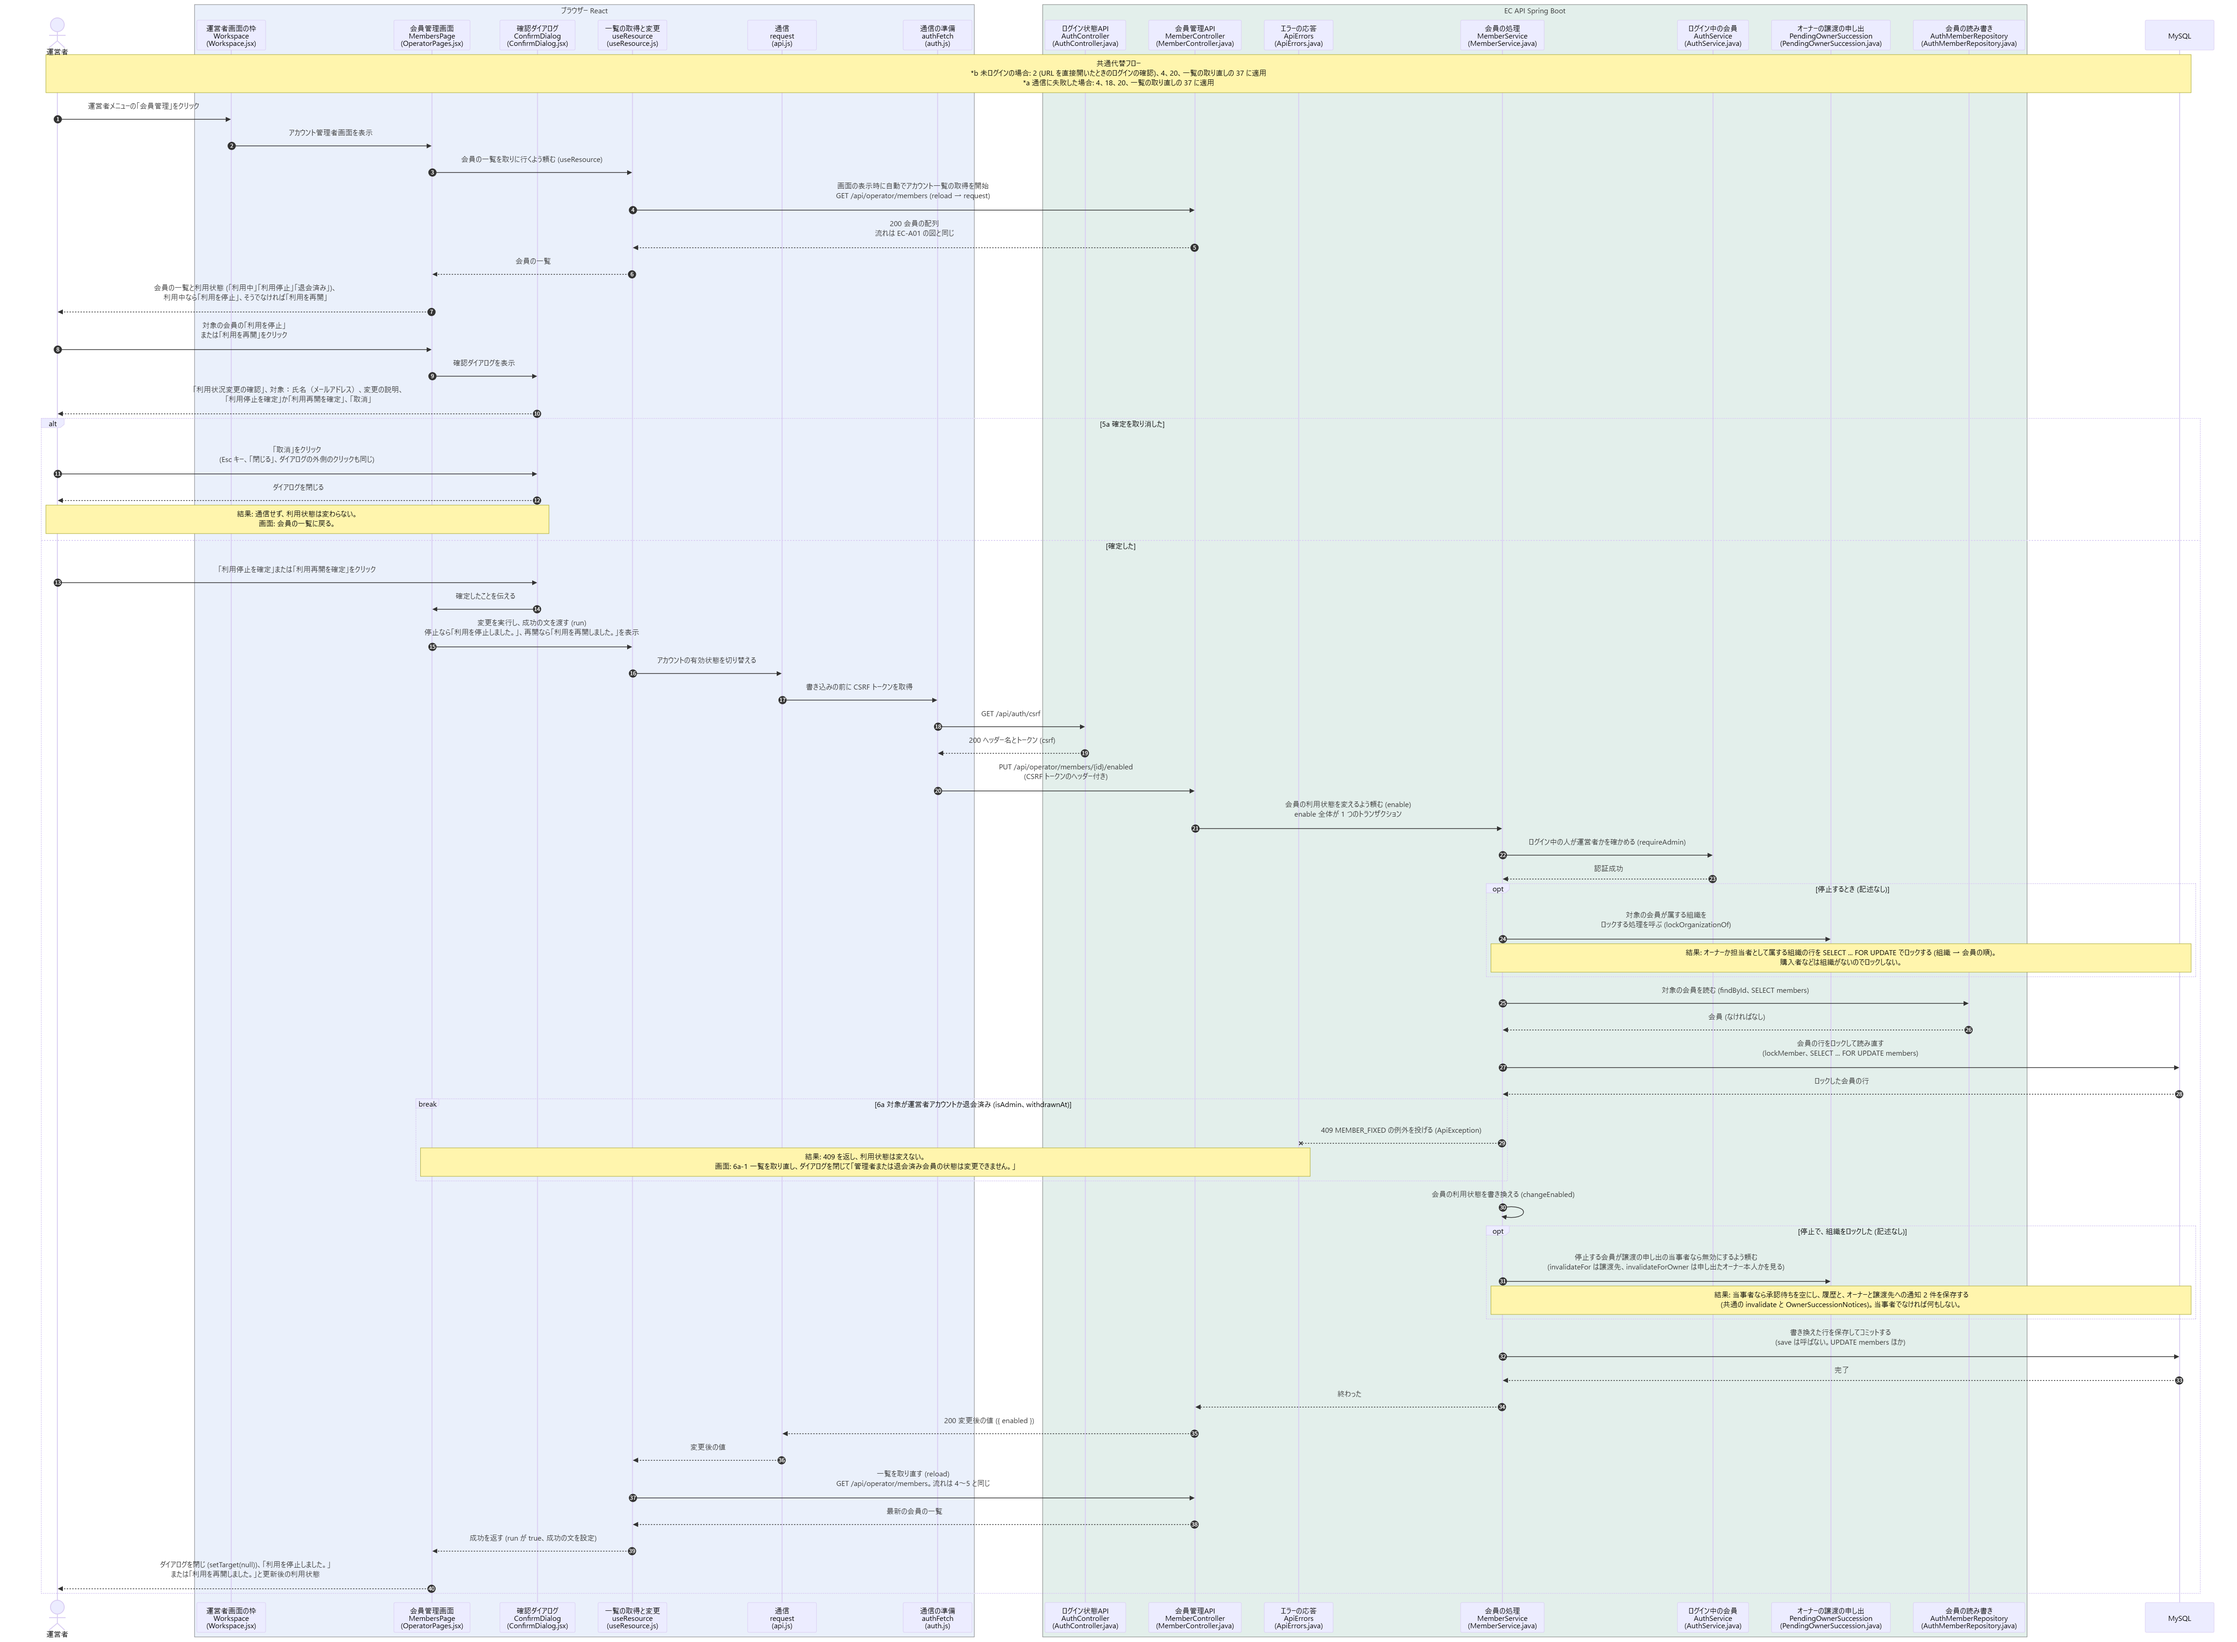
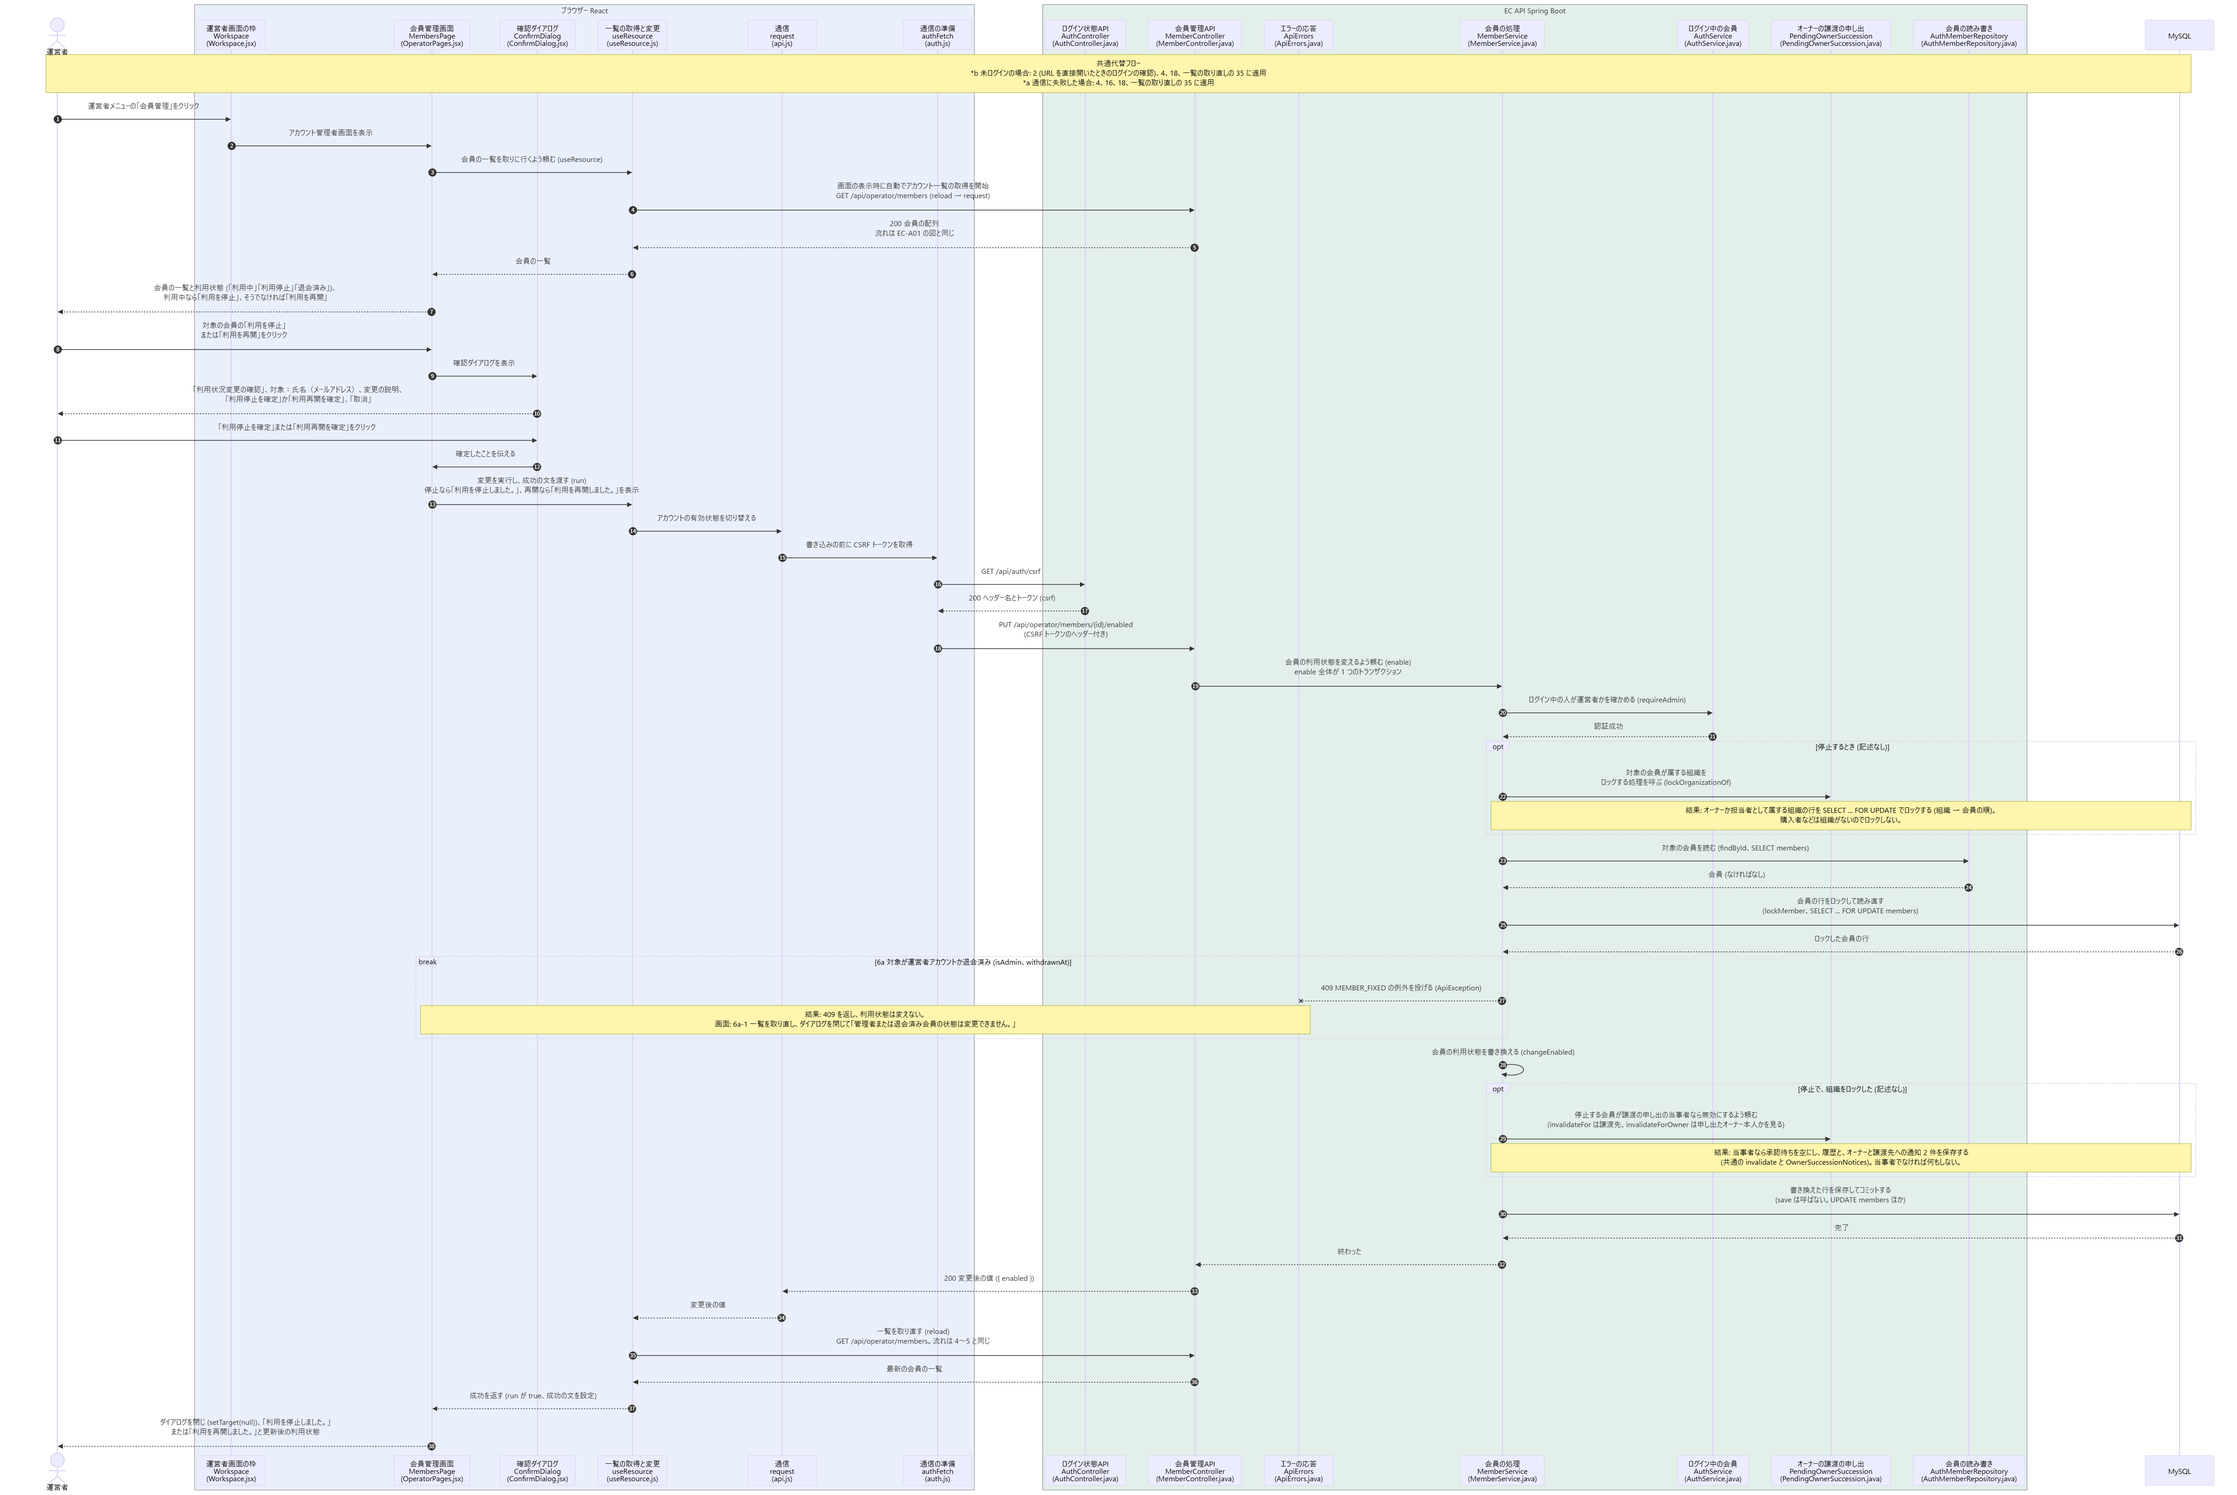
EC-A02 のシーケンス図から、5a（確定の取り消し）の分岐を外す
ほかの図（A09・A10・A11・S06 など）では、確認ダイアログの「取消」の分岐を図から外したので、EC-A02 もそろえる。

- 5a の alt と、その中の「取消」をクリックする矢印・ダイアログを閉じる矢印・Note を消し、「確定した」の枝の中身を基本フローに戻した。
- 図の下の「図に描いていない代替フロー」に 5a（確定を取り消した）を足した。
- 矢印が 2 本減ったので、最上部の共通代替フローの番号（*b は 2・4・18・35、*a は 4・16・18・35）と、共通代替フローを直接書いた図の「上の図の 20〜30」を直した。
- 2 つの図の PNG を mermaid-snap（snap.mjs、--scale 1）で作り直した。

描画は Mermaid 10.9.3 と 11.4.1 で確かめた。GitHub と Obsidian での表示は確かめていない。

diff --git a/シーケンス図/kusakari-ec/EC-A02_アカウントの利用状況を変更する.md b/シーケンス図/kusakari-ec/EC-A02_アカウントの利用状況を変更する.md
@@ -33,7 +33,7 @@ sequenceDiagram
     end
     participant Db as MySQL
 
-    Note over User,Db: 共通代替フロー<br/>*b 未ログインの場合: 2 (URL を直接開いたときのログインの確認)、4、20、一覧の取り直しの 37 に適用<br/>*a 通信に失敗した場合: 4、18、20、一覧の取り直しの 37 に適用
+    Note over User,Db: 共通代替フロー<br/>*b 未ログインの場合: 2 (URL を直接開いたときのログインの確認)、4、18、一覧の取り直しの 35 に適用<br/>*a 通信に失敗した場合: 4、16、18、一覧の取り直しの 35 に適用
 
     User->>Work: 運営者メニューの「会員管理」をクリック
     Work->>Page: アカウント管理者画面を表示
@@ -47,54 +47,48 @@ sequenceDiagram
     Page->>Dlg: 確認ダイアログを表示
     Dlg-->>User: 「利用状況変更の確認」、対象：氏名（メールアドレス）、変更の説明、<br/>「利用停止を確定」か「利用再開を確定」、「取消」
 
-    alt 5a 確定を取り消した
-        User->>Dlg: 「取消」をクリック<br/>(Esc キー、「閉じる」、ダイアログの外側のクリックも同じ)
-        Dlg-->>User: ダイアログを閉じる
-        Note over User,Dlg: 結果: 通信せず、利用状態は変わらない。<br/>画面: 会員の一覧に戻る。
-    else 確定した
-        User->>Dlg: 「利用停止を確定」または「利用再開を確定」をクリック
-        Dlg->>Page: 確定したことを伝える
-        Page->>Hook: 変更を実行し、成功の文を渡す (run)<br>停止なら「利用を停止しました。」、再開なら「利用を再開しました。」を表示
-        Hook->>Http: アカウントの有効状態を切り替える
-        Http->>AuthJs: 書き込みの前に CSRF トークンを取得
-        AuthJs->>AuthCtrl: GET /api/auth/csrf
-        AuthCtrl-->>AuthJs: 200 ヘッダー名とトークン (csrf)
-        AuthJs->>Ctrl: PUT /api/operator/members/{id}/enabled<br/>(CSRF トークンのヘッダー付き)
-        Ctrl->>Svc: 会員の利用状態を変えるよう頼む (enable)<br/>enable 全体が 1 つのトランザクション
-        Svc->>Auth: ログイン中の人が運営者かを確かめる (requireAdmin)
-        Auth-->>Svc: 認証成功
-        opt 停止するとき (記述なし)
-            Svc->>Pend: 対象の会員が属する組織を<br>ロックする処理を呼ぶ (lockOrganizationOf)
-            Note over Svc,Db: 結果: オーナーか担当者として属する組織の行を SELECT ... FOR UPDATE でロックする (組織 → 会員の順)。<br/>購入者などは組織がないのでロックしない。
-        end
-        Svc->>Repo: 対象の会員を読む (findById、SELECT members)
-        Repo-->>Svc: 会員 (なければなし)
-        Svc->>Db: 会員の行をロックして読み直す<br/>(lockMember、SELECT ... FOR UPDATE members)
-        Db-->>Svc: ロックした会員の行
-        break 6a 対象が運営者アカウントか退会済み (isAdmin、withdrawnAt)
-            Svc--xErrs: 409 MEMBER_FIXED の例外を投げる (ApiException)
-            Note over Errs,Page: 結果: 409 を返し、利用状態は変えない。<br/>画面: 6a-1 一覧を取り直し、ダイアログを閉じて「管理者または退会済み会員の状態は変更できません。」
-        end
-        Svc->>Svc: 会員の利用状態を書き換える (changeEnabled)
-        opt 停止で、組織をロックした (記述なし)
-            Svc->>Pend: 停止する会員が譲渡の申し出の当事者なら無効にするよう頼む<br/>(invalidateFor は譲渡先、invalidateForOwner は申し出たオーナー本人かを見る)
-            Note over Svc,Db: 結果: 当事者なら承認待ちを空にし、履歴と、オーナーと譲渡先への通知 2 件を保存する<br/>(共通の invalidate と OwnerSuccessionNotices)。当事者でなければ何もしない。
-        end
-        Svc->>Db: 書き換えた行を保存してコミットする<br/>(save は呼ばない。UPDATE members ほか)
-        Db-->>Svc: 完了
-        Svc-->>Ctrl: 終わった
-        Ctrl-->>Http: 200 変更後の値 ({ enabled })
-        Http-->>Hook: 変更後の値
-        Hook->>Ctrl: 一覧を取り直す (reload)<br/>GET /api/operator/members。流れは 4〜5 と同じ
-        Ctrl-->>Hook: 最新の会員の一覧
-        Hook-->>Page: 成功を返す (run が true、成功の文を設定)
-        Page-->>User: ダイアログを閉じ (setTarget(null))、「利用を停止しました。」<br/>または「利用を再開しました。」と更新後の利用状態
+    User->>Dlg: 「利用停止を確定」または「利用再開を確定」をクリック
+    Dlg->>Page: 確定したことを伝える
+    Page->>Hook: 変更を実行し、成功の文を渡す (run)<br>停止なら「利用を停止しました。」、再開なら「利用を再開しました。」を表示
+    Hook->>Http: アカウントの有効状態を切り替える
+    Http->>AuthJs: 書き込みの前に CSRF トークンを取得
+    AuthJs->>AuthCtrl: GET /api/auth/csrf
+    AuthCtrl-->>AuthJs: 200 ヘッダー名とトークン (csrf)
+    AuthJs->>Ctrl: PUT /api/operator/members/{id}/enabled<br/>(CSRF トークンのヘッダー付き)
+    Ctrl->>Svc: 会員の利用状態を変えるよう頼む (enable)<br/>enable 全体が 1 つのトランザクション
+    Svc->>Auth: ログイン中の人が運営者かを確かめる (requireAdmin)
+    Auth-->>Svc: 認証成功
+    opt 停止するとき (記述なし)
+        Svc->>Pend: 対象の会員が属する組織を<br>ロックする処理を呼ぶ (lockOrganizationOf)
+        Note over Svc,Db: 結果: オーナーか担当者として属する組織の行を SELECT ... FOR UPDATE でロックする (組織 → 会員の順)。<br/>購入者などは組織がないのでロックしない。
     end
+    Svc->>Repo: 対象の会員を読む (findById、SELECT members)
+    Repo-->>Svc: 会員 (なければなし)
+    Svc->>Db: 会員の行をロックして読み直す<br/>(lockMember、SELECT ... FOR UPDATE members)
+    Db-->>Svc: ロックした会員の行
+    break 6a 対象が運営者アカウントか退会済み (isAdmin、withdrawnAt)
+        Svc--xErrs: 409 MEMBER_FIXED の例外を投げる (ApiException)
+        Note over Errs,Page: 結果: 409 を返し、利用状態は変えない。<br/>画面: 6a-1 一覧を取り直し、ダイアログを閉じて「管理者または退会済み会員の状態は変更できません。」
+    end
+    Svc->>Svc: 会員の利用状態を書き換える (changeEnabled)
+    opt 停止で、組織をロックした (記述なし)
+        Svc->>Pend: 停止する会員が譲渡の申し出の当事者なら無効にするよう頼む<br/>(invalidateFor は譲渡先、invalidateForOwner は申し出たオーナー本人かを見る)
+        Note over Svc,Db: 結果: 当事者なら承認待ちを空にし、履歴と、オーナーと譲渡先への通知 2 件を保存する<br/>(共通の invalidate と OwnerSuccessionNotices)。当事者でなければ何もしない。
+    end
+    Svc->>Db: 書き換えた行を保存してコミットする<br/>(save は呼ばない。UPDATE members ほか)
+    Db-->>Svc: 完了
+    Svc-->>Ctrl: 終わった
+    Ctrl-->>Http: 200 変更後の値 ({ enabled })
+    Http-->>Hook: 変更後の値
+    Hook->>Ctrl: 一覧を取り直す (reload)<br/>GET /api/operator/members。流れは 4〜5 と同じ
+    Ctrl-->>Hook: 最新の会員の一覧
+    Hook-->>Page: 成功を返す (run が true、成功の文を設定)
+    Page-->>User: ダイアログを閉じ (setTarget(null))、「利用を停止しました。」<br/>または「利用を再開しました。」と更新後の利用状態
 ```
 
 ![EC-A02 シーケンス図](<images/EC-A02_アカウントの利用状況を変更する-1.png>)
 
-図に描いていない代替フロー：（記述なし）の分岐（会員がいない）
+図に描いていない代替フロー：5a（確定を取り消した）、（記述なし）の分岐（会員がいない）
 
 ## 共通代替フローを直接書いた図
 
@@ -173,7 +167,7 @@ sequenceDiagram
             AuthJs->>Filter: PUT /api/operator/members/{id}/enabled
             Filter->>Ctrl: 要求を通す (chain.doFilter)
             Ctrl->>Svc: 会員の利用状態を変えるよう頼む (enable)
-            Svc->>Db: 運営者かを確かめ、組織と会員をロックして読み、<br/>書き換えてコミットする (上の図の 22〜32)
+            Svc->>Db: 運営者かを確かめ、組織と会員をロックして読み、<br/>書き換えてコミットする (上の図の 20〜30)
             alt *a MySQL との通信に失敗
                 Db--xSvc: 失敗 (DataAccessException)。<br/>トランザクションの変更はすべて取り消す
                 Svc--xCtrl: 例外
